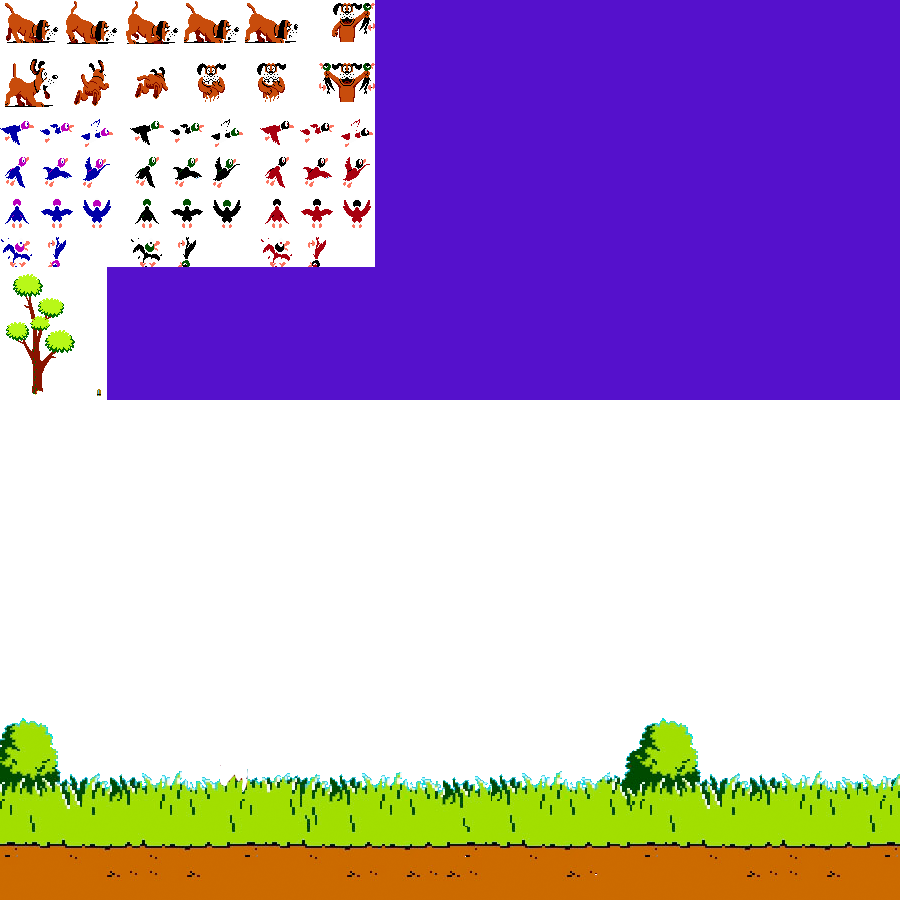
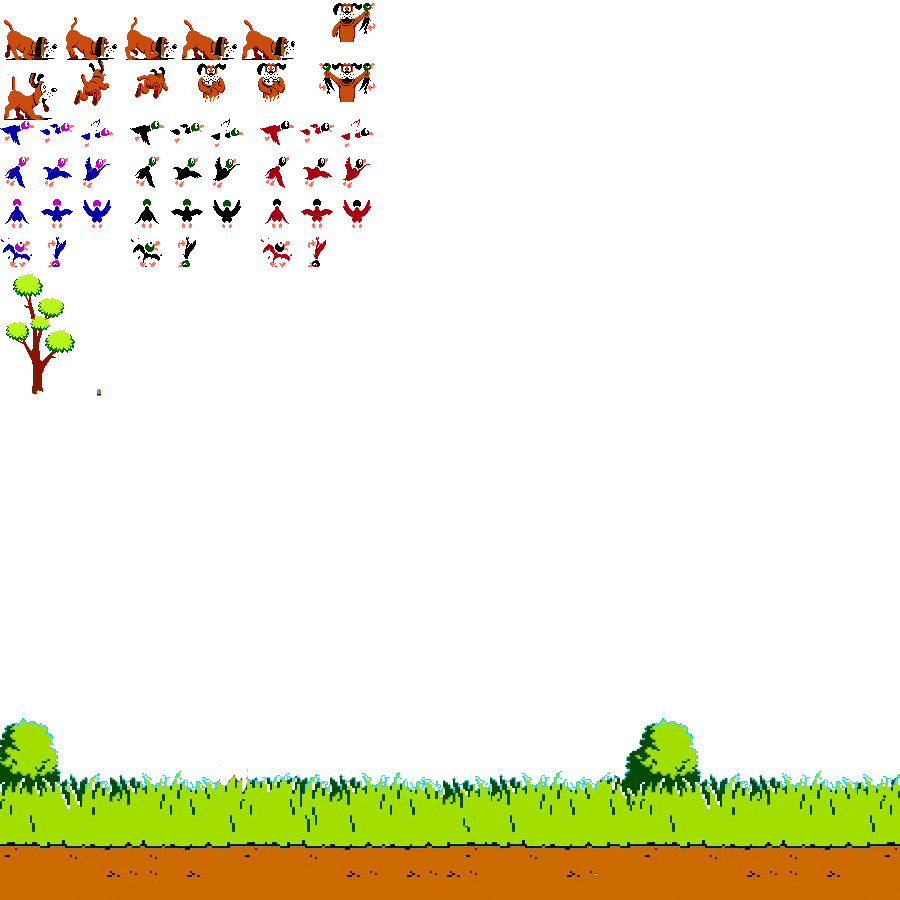
got the operations and inp input  to work

diff --git a/DuckHunt/game.js b/DuckHunt/game.js
@@ -45,7 +45,7 @@ function initDraw() {
   dhImage.src = 'assets/duckhunt.png';
 
   fps = 15;
-  dogSx = 5;
+  dogSx = 0;
   dogX = 20;
   sniffNum = 0;
   bg = function(){
@@ -77,8 +77,8 @@ function play() {
 
 function dogMove() {
    ctx.clearRect(dogX, 460, 130, 105);
-   if (dogSx >= 245) {
-       dogSx = 5;
+   if (dogSx >= 240) {
+       dogSx = 0;
    }
    else {
        dogSx += 60;
@@ -87,12 +87,12 @@ function dogMove() {
    //Redraw Background
    bg();
    //Dog Image
-   ctx.drawImage(dhImage,dogSx,1,59,43,dogX,440,130,105);
+   ctx.drawImage(dhImage,dogSx,0,60,60,dogX,440,130,105);
 
    if ((dogX)%60===0) {
        // ctx.drawImage(dhImage,0,272,75,125,50,225,500,600);
        move = false;
-       dogSx = 185;
+       dogSx = 180;
        sniffNum = 0;
        // move = false;
    } else if (dogX > 300) {
@@ -103,17 +103,17 @@ function dogMove() {
 }
 
 function dogSniff() {
-    if (dogSx === 185) {
-        dogSx = 245;
+    if (dogSx === 180) {
+        dogSx = 240;
         sniffNum++;
         bg();
-        ctx.drawImage(dhImage,dogSx,1,59,43,dogX,440,130,105);
+        ctx.drawImage(dhImage,dogSx,0,60,60,dogX,440,130,105);
     } else if (sniffNum === 3) {
         move = true;
-    } else if (dogSx === 245) {
-        dogSx = 185;
+    } else if (dogSx === 240) {
+        dogSx = 180;
         bg();
-        ctx.drawImage(dhImage,dogSx,1,59,43,dogX,440,130,105);
+        ctx.drawImage(dhImage,dogSx,0,60,60,dogX,440,130,105);
     }
 }
 
@@ -122,48 +122,42 @@ function dogJump(){
 
   switch(frame) {
     case 0:
-      dogSx = 5;
+      dogSx = 0;
       dogY = 440;
-      ctx.drawImage(dhImage,dogSx,59,55,50,dogX,dogY,130,105);
-      dogSx=65
+      ctx.drawImage(dhImage,dogSx,61,60,60,dogX,dogY,130,105);
+      dogSx=60
       break;
     case 1:
       dogY-=20;
       dogX+=5;
-      ctx.drawImage(dhImage,dogSx,59,55,50,dogX,dogY,130,105);
+      ctx.drawImage(dhImage,dogSx,61,60,50,dogX,dogY,130,105);
       break;
     case 2:
       dogY-=20;
       dogX+=5;
-      ctx.drawImage(dhImage,dogSx,59,55,50,dogX,dogY,130,105);
+      ctx.drawImage(dhImage,dogSx,61,60,50,dogX,dogY,130,105);
       break;
     case 3:
       dogY-=20;
       dogX+=5;
-      ctx.drawImage(dhImage,dogSx,59,55,50,dogX,dogY,130,105);
+      ctx.drawImage(dhImage,dogSx,61,60,50,dogX,dogY,130,105);
       break;
     case 4:
       dogY-=20;
       dogX+=5;
-      ctx.drawImage(dhImage,dogSx,59,55,50,dogX,dogY,130,105);
+      ctx.drawImage(dhImage,dogSx,61,60,50,dogX,dogY,130,105);
       break;
     case 5:
       dogSx = 130;
-      ctx.drawImage(dhImage,dogSx,59,55,50,dogX,dogY,130,105);
+      ctx.drawImage(dhImage,dogSx,61,60,50,dogX,dogY,130,105);
       ctx.drawImage(dhImage,0,720,800,180,0,380,800,180);
       break;
     case 6:
       dogY+=20;
       dogX+=5;
-      ctx.drawImage(dhImage,dogSx,59,55,50,dogX,dogY,124,100);
+      ctx.drawImage(dhImage,dogSx,61,55,50,dogX,dogY,124,100);
       ctx.drawImage(dhImage,0,720,800,180,0,380,800,180);
       break;
-    // case 7:
-    //   dogY+=20;
-    //   dogX+=5;
-    //   ctx.drawImage(dhImage,dogSx,59,55,50,dogX,dogY,120,97);
-    //   ctx.drawImage(dhImage,0,720,800,180,0,380,800,180);
-    //   break;
     default:
       window.cancelAnimationFrame(requestAnimFrame( animateMove ));
       break;
@@ -176,10 +170,18 @@ function dogJump(){
 }
 
 function flyingbird() {
-
+    var birdtype = Math.floor(3*Math.random());
+    if (birdtype ===0) {
+        var birdSx = 0;
+    } else if (birdtype === 1) {
+        var birdSx = 130;
+    } else {
+        var birdSx = 260;
+    }
 }
 
-function shoot() {
+function shoot(e) {
+  e.preventDefault();
   var audio = new Audio('assets/sound/shoot.wav');
   audio.play();
 }

diff --git a/Calculator/main.js b/Calculator/main.js
@@ -1,17 +1,115 @@
-$(document).ready(function(){
-	$('div').on("click", function(e){
+var operationArr = [];
+var input = document.getElementById("screen");
+var decimal = true;
+input.value = 0;
+var operBool = false;
+
+
+$('.button').on('click', function(e) {
+
+	e.stopPropagation();
+
+	setFocus();
+
 		var id = $(event.target).attr('id');
-		var cls = $(event.target).attr('class');
-	});
+		var button = document.getElementById(id);
+
+	console.log(button.innerHTML);
+
+
+	if(/[0-9]/.test(button.innerHTML) || (button.innerHTML === '.' && decimal)) {
+
+		if(button.innerHTML === '.')
+				decimal = false;
+
+
+		if(input.value === "0" && button.innerHTML !== '.')
+				input.value = button.innerHTML;
+		else
+				input.value += button.innerHTML;
+
+	} else if(/[asdm]/.test(id)) {
+
+			if(operBool) {
+					ans();
+					operationArr[operationArr.length] = input.value;
+					operationArr[operationArr.length] = id;
+			} else {
+				 operationArr[operationArr.length] = input.value;
+				 operationArr[operationArr.length] = id;
+				 clearCal("decimal", "input");
+			}
+
+			operBool = !operBool;
+
+
+	} else if(button.innerHTML === "=") {
+			ans();
+	} else if (id === "CE") {
+			clearCal();
+	}
+
 });
 
 
 
 
 
+function clearCal(type1, type2, type3) {
 
-function add(a,b) {
-	return a + b;
+	if (!type1) {
+		input.value = "0";
+		decimal = true;
+		operationArr = [];
+	}
+
+	if ((type1 || type2 || type3) === "input") {
+			input.value = "0";
+	}
+
+	if((type1 || type2 || type3) === "arr") {
+			operationArr = [];
+	}
+
+	if((type1 || type2 || type3) === "decimal") {
+			decimal = true;
+	}
+
+}
+
+
+function setFocus() {
+	input.focus();
+}
+
+function ans() {
+		operationArr[operationArr.length] = input.value;
+
+		var a = parseFloat(operationArr[0]);
+		var b = parseFloat(operationArr[2]);
+
+	switch(operationArr[1]) {
+		case "d":
+				input.value = divide(a, b);
+				break;
+		case "s":
+				input.value = subract(a, b);
+				break;
+		case "m":
+				input.value = multiple(a, b);
+				break;
+		case "a":
+				input.value = addition(a, b);
+				break;
+		default:
+				break;
+	}
+
+	clearCal("arr", "decimal");
+}
+
+function addition(a,b) {
+	return (a + b);
 }
 function subract(a, b) {
 	return a - b;
@@ -22,8 +120,3 @@ function multiple(a, b) {
 function divide (a, b) {
 	return a/b;
 }
-
-$('.button').click(function(){
-
-});
-

diff --git a/Calculator/index.html b/Calculator/index.html
@@ -1,13 +1,12 @@
 <!DOCTYPE html>
 <html>
 	<head>
-		<script src='https://cdn.mathjax.org/mathjax/latest/MathJax.js?config=TeX-AMS-MML_HTMLorMML'></script>
 		<link href='main.css' rel="stylesheet" >
 	</head>
 	<body>
 		<div id='calculator'>
 		<form>
-			<input type="text" name="screen">
+			<input id='screen' type="text" name="screen" >
 		</form>
 			<div id='row' class='1'>
 				<div id='openParen' class='button'>(</div>
@@ -20,28 +19,35 @@
 				<div id='7' class='button num'>7</div>
 				<div id='8' class='button num'>8</div>
 				<div id='9' class='button num'>9</div>
-				<div id='divide' class='button'>&divide;</div>
+				<div id='d' class='button'>&divide;</div>
 			</div>
 			<div id='row' class='3'>
 				<div id='4' class='button num'>4</div>
 				<div id='5' class='button num'>5</div>
 				<div id='6' class='button num'>6</div>
-				<div id='x' class='button'>&times;</div>
+				<div id='m' class='button'>&times;</div>
 			</div>
 			<div id='row' class='4'>
 				<div id='1' class='button num'>1</div>
 				<div id='2' class='button num'>2</div>
 				<div id='3' class='button num'>3</div>
-				<div id='dash' class='button'>-</div>
+				<div id='s' class='button'>-</div>
 			</div>
 			<div id='row' class='5'>
 				<div id='0' class='button num'>0</div>
 				<div id='dot' class='button'>.</div>
-				<div id='equal' class='button'>=</div>
-				<div id='plus' class='button'>+</div>
+				<div id='=' class='button'>=</div>
+				<div id='a' class='button'>+</div>
 			</div>
 		</div>
 
+
+		<!-- jQuery (necessary for Bootstrap's JavaScript plugins) -->
+		<script src="https://ajax.googleapis.com/ajax/libs/jquery/1.11.2/jquery.min.js"></script>
+		<script src="https://ajax.googleapis.com/ajax/libs/jquery/2.1.3/jquery.min.js"></script>
+		<script src="https://ajax.googleapis.com/ajax/libs/jquerymobile/1.4.3/jquery.mobile.min.js"></script>
+		<script src="https://ajax.googleapis.com/ajax/libs/jqueryui/1.11.3/jquery-ui.min.js"></script>
+		<!-- Include all compiled plugins (below), or include individual files as needed -->
 		<script type="text/javascript" src='main.js'></script>
 	</body>
 </html

diff --git a/Calculator/main.css b/Calculator/main.css
@@ -1,7 +1,15 @@
+* {
+	-webkit-tap-highlight-color:transparent;
+	-webkit-user-select: none;
+	outline: none;
+}
+
 body {
 	background-color: #000;
 	color: #fff;
 }
+
+
 #calculator {
 	border-radius: 10px;
 	width: 360px;
@@ -9,9 +17,11 @@ body {
 	margin-right: 30%;
 	margin-top: 200px;
 }
+
 #row {
 	display: block;
 }
+
 input[type='text'] {
 	border-radius: 10px;
 	height: 40px;
@@ -33,7 +43,7 @@ input[type='text'] {
 	text-align: center;
 	vertical-align: middle;
 	line-height: 30px;
-	
+
 }
 
 .button:hover{

diff --git a/DuckHunt/index.html b/DuckHunt/index.html
@@ -8,7 +8,7 @@
   <body>
     <div id="game_div">
     <canvas id="game" height="600" width="800"></canvas>
-    <embed src="assets/sound/theme.mp3" autostart="true" loop="true"> 
+    <audio src="assets/sound/theme.mp3" autostart="true" loop="true">
     </div>
     <script src="game.js"></script>
   </body>

diff --git a/DuckHunt/style.css b/DuckHunt/style.css
@@ -8,3 +8,7 @@ canvas {
 
 body {
 }
+
+audio {
+   display:none;
+}
